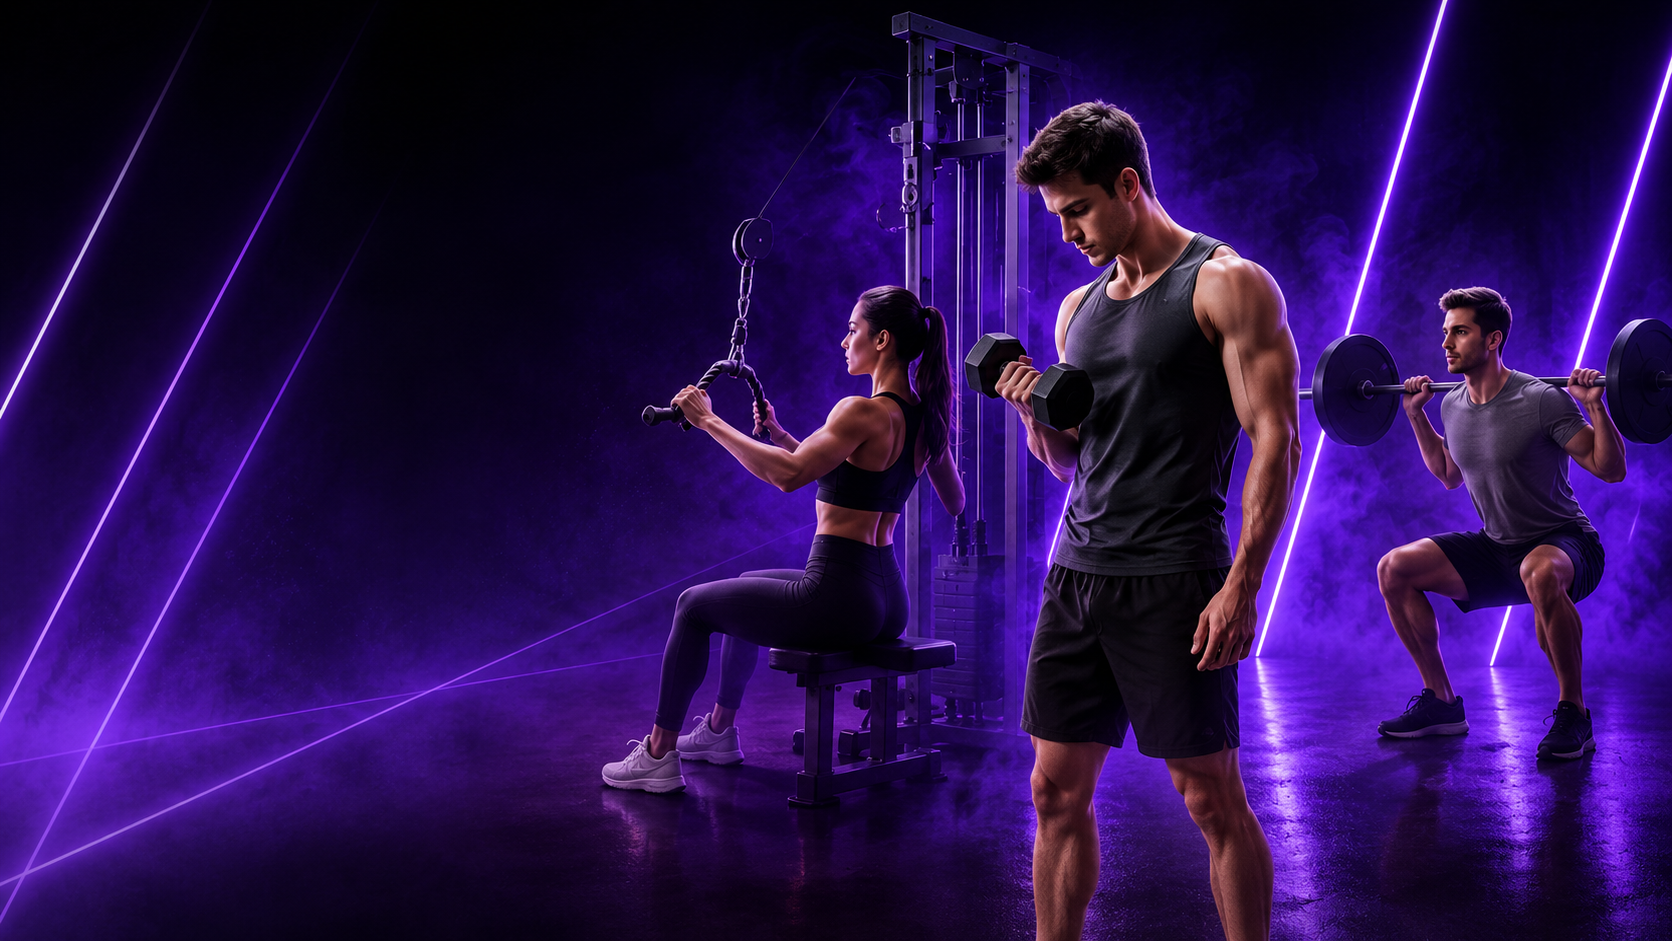
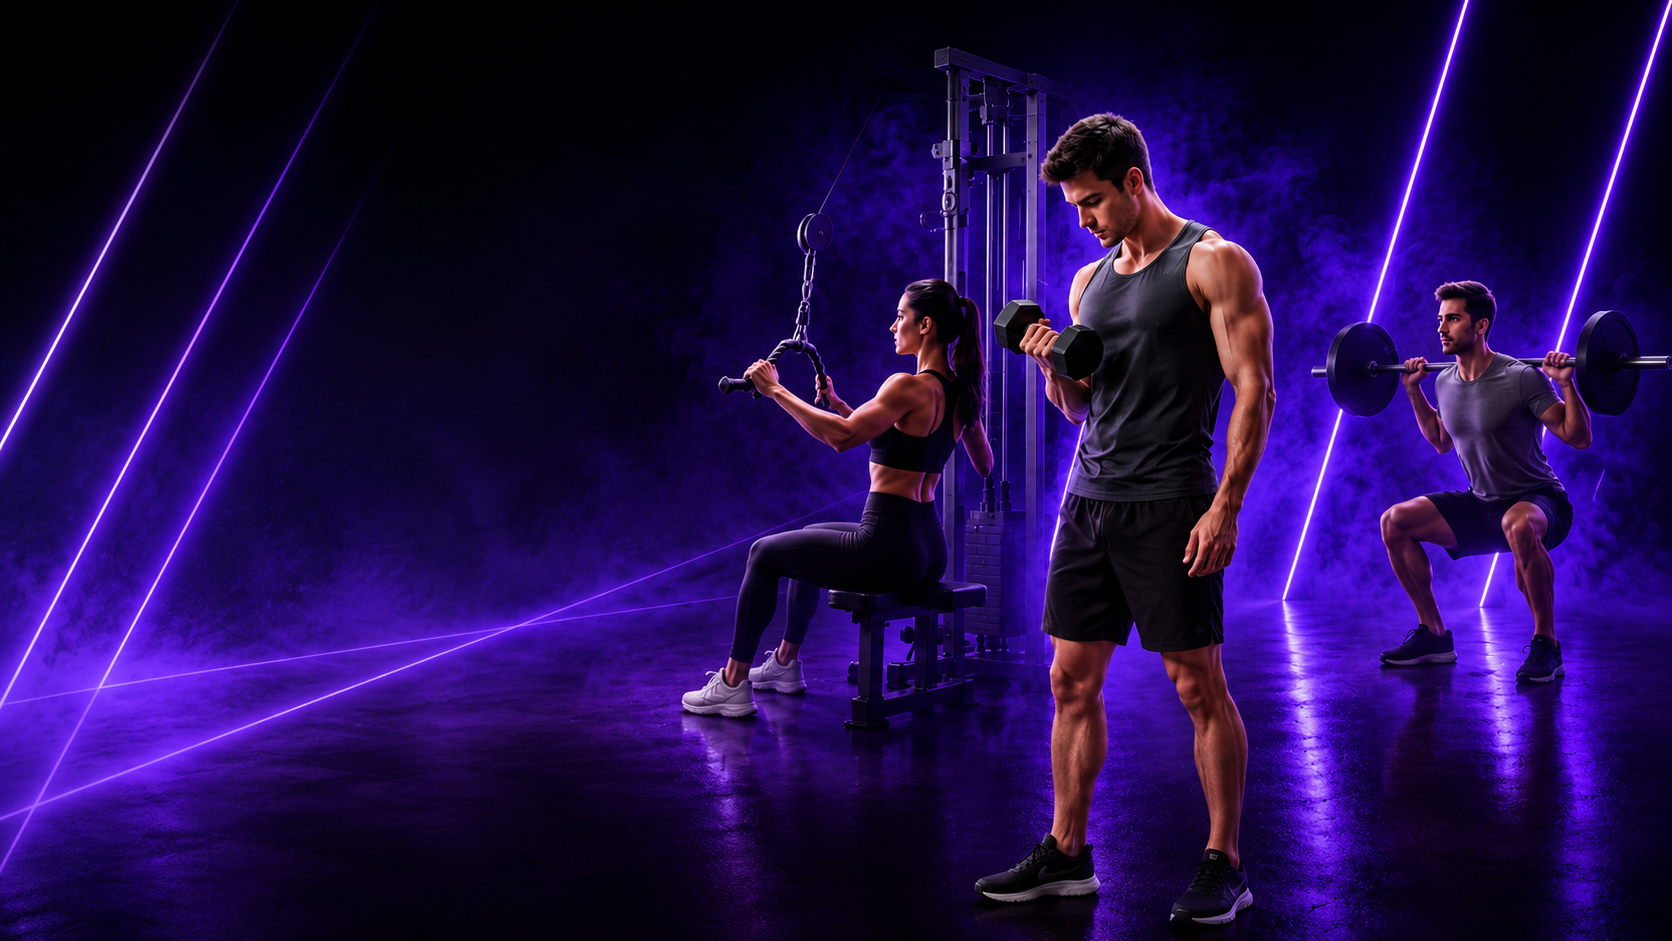
update design dashboard principal

diff --git a/app/page.tsx b/app/page.tsx
@@ -243,7 +243,7 @@ export default async function Home() {
         animate="visible"
       >
 
-        <div className="relative overflow-hidden rounded-2xl bg-[#11151f]" style={{ minHeight: 196 }}>
+        <div className="relative min-h-[167px] overflow-hidden rounded-2xl bg-[#11151f] sm:min-h-[196px]">
           {/* Fixed hero image */}
           <Image
             alt="Entrenamiento de hoy"
@@ -263,7 +263,7 @@ export default async function Home() {
             Hoy toca
           </span>
 
-          <div className="relative z-10 flex h-full flex-col justify-end gap-5 p-4 pb-4 pt-12">
+          <div className="relative z-10 flex h-full flex-col justify-end gap-3 p-3 pb-3 pt-8 sm:gap-5 sm:p-4 sm:pb-4 sm:pt-12">
             {/* Muscle groups title + subtitle */}
             <div className="flex flex-col gap-2.5">
               <h2 className="font-display text-xl font-bold leading-tight text-white">
@@ -805,9 +805,9 @@ function ComidasHoyCard({
             <div className="flex min-h-24 min-w-0 flex-col justify-center gap-0.5">
               <div className="flex items-center gap-1">
                 <Star className="size-3 shrink-0 text-[#a970ff] fill-current" />
-                <span className="text-[9px] font-medium text-[#9ea8ba]">Sugerencia</span>
+                <span className="inline-block w-[10ch] text-[9px] font-medium text-[#9ea8ba]">Sugerencia</span>
               </div>
-              <p className="max-w-[96px] text-[7.5px] leading-snug text-[#8c96ac]">
+              <p className="w-[10ch] text-[7.5px] leading-snug text-[#8c96ac]">
                 Registrá comidas para alcanzar tus objetivos
               </p>
             </div>